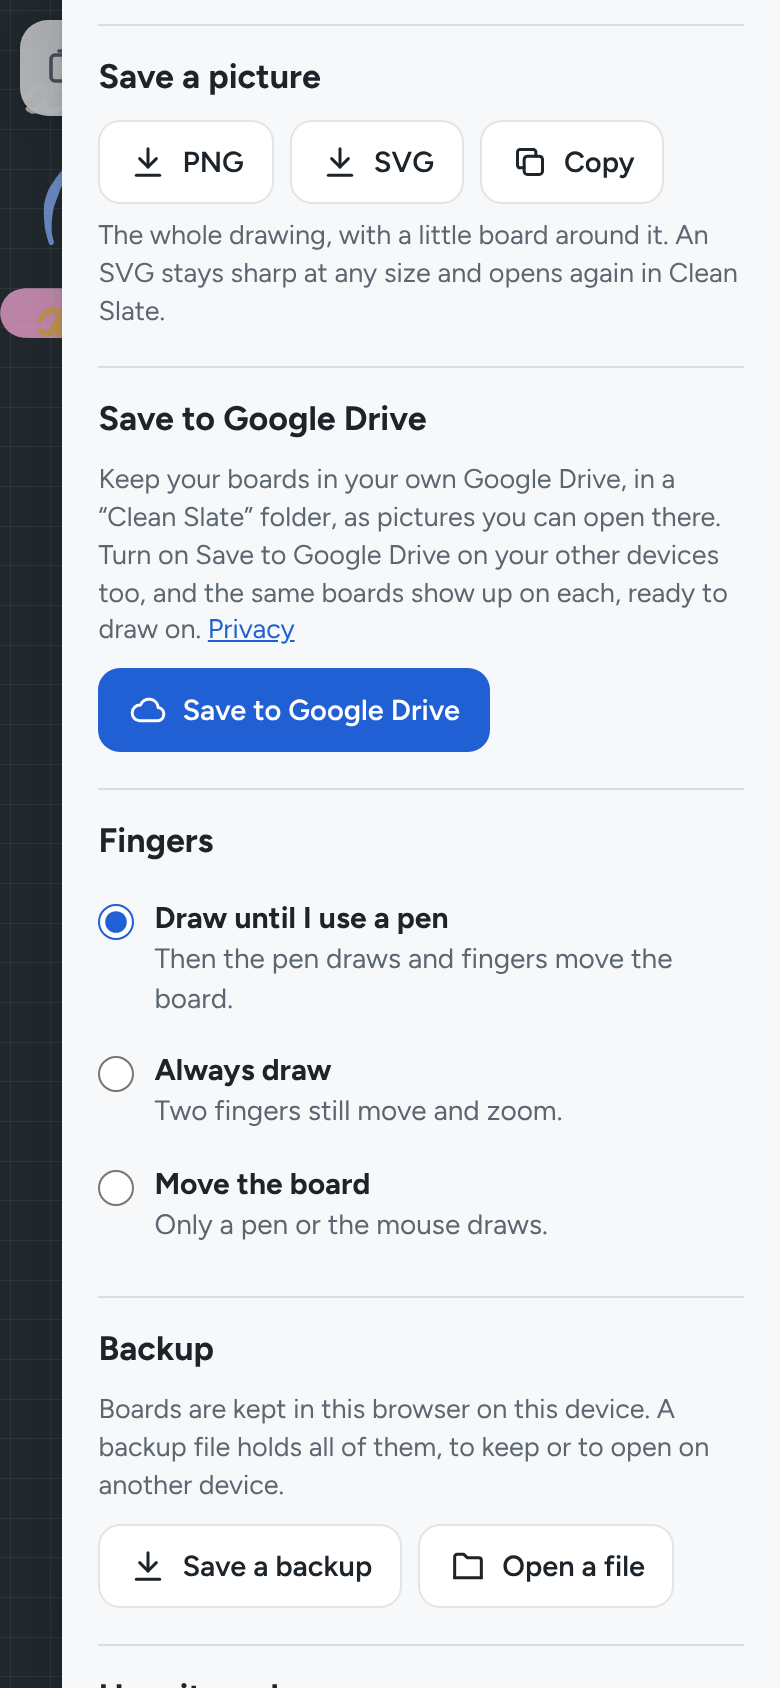
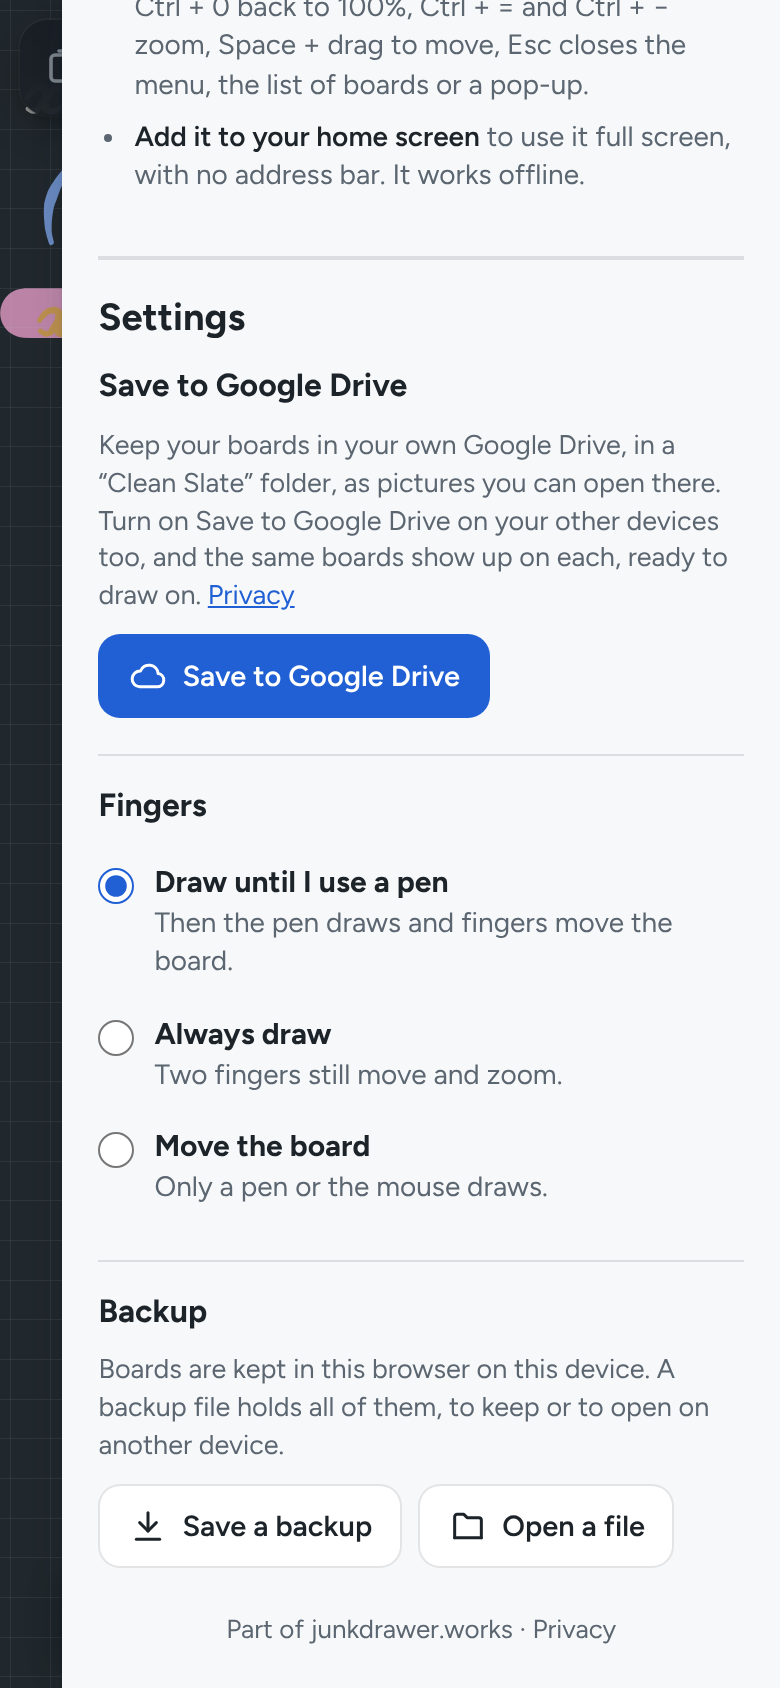
The menu has two parts, This board and Settings, with How it works higher up
The menu sheet was headed 'This board' but also held Google Drive, Fingers and Backup, which cover every board and the device, and How it works, the one place that explains the gestures, was last, about two screens down on a phone. This answers Mark's 'Split the menu into This board and Settings, with How it works higher up?' (he took the suggestion). 'This board' now heads the name, colour, lines, Show it all, Clear and Save a picture, with How it works straight after; a second heading, 'Settings', over a heavier rule, heads Google Drive, Fingers and Backup, and goes when nothing under it shows. The section headings are a size down from the two part headings, the dialog is named Menu, and the empty board's hint ends 'More in the ··· menu.' No setting does anything different. The phone menu picture now shows Settings, and the boards list picture its larger heading. The e2e test checks the headings and what is under each; the hint tests take the new words.

Claude-Session: https://claude.ai/code/session_01PQbLNUvRMPCiJKAR12LKFV

Changed region(s): [[0.1231, 0.0, 0.9231, 0.7393], [0.1231, 0.7701, 0.9231, 0.9858], [0.0, 0.0, 0.0923, 0.0924]]

diff --git a/index.html b/index.html
@@ -59,7 +59,7 @@
       <ul id="boardList" class="board-list"></ul>
     </aside>
 
-    <aside id="menu" class="sheet right" hidden role="dialog" aria-modal="true" aria-labelledby="menuTitle" tabindex="-1">
+    <aside id="menu" class="sheet right" hidden role="dialog" aria-modal="true" aria-label="Menu" tabindex="-1">
       <div class="sheet-head">
         <h2 id="menuTitle">This board</h2>
         <button type="button" class="icon-btn" data-close aria-label="Close">
@@ -75,7 +75,7 @@
       </div>
 
       <section class="files">
-        <h2>Save a picture</h2>
+        <h3>Save a picture</h3>
         <div class="row">
           <button type="button" class="btn" id="savePng"><svg viewBox="0 0 24 24" width="24" height="24" aria-hidden="true" fill="none" stroke="currentColor" stroke-width="1.8" stroke-linecap="round" stroke-linejoin="round"><path d="M12 4v11"/><path d="M7 10l5 5 5-5"/><path d="M5 20h14"/></svg>PNG</button>
           <button type="button" class="btn" id="saveSvg"><svg viewBox="0 0 24 24" width="24" height="24" aria-hidden="true" fill="none" stroke="currentColor" stroke-width="1.8" stroke-linecap="round" stroke-linejoin="round"><path d="M12 4v11"/><path d="M7 10l5 5 5-5"/><path d="M5 20h14"/></svg>SVG</button>
@@ -85,30 +85,8 @@
         <p class="small">The whole drawing, with a little board around it. An SVG stays sharp at any size and opens again in Clean Slate.</p>
       </section>
 
-      <section id="drive" class="drive" hidden></section>
-
-      <section>
-        <h2 id="fingersTitle">Fingers</h2>
-        <div role="radiogroup" aria-labelledby="fingersTitle">
-        <label class="radio"><input type="radio" name="fingers" value="auto"><span><b>Draw until I use a pen</b> Then the pen draws and fingers move the board.</span></label>
-        <label class="radio"><input type="radio" name="fingers" value="draw"><span><b>Always draw</b> Two fingers still move and zoom.</span></label>
-        <label class="radio"><input type="radio" name="fingers" value="move"><span><b>Move the board</b> Only a pen or the mouse draws.</span></label>
-        </div>
-      </section>
-
-      <section class="files">
-        <h2>Backup</h2>
-        <p class="small">Boards are kept in this browser on this device. A backup file holds all of them, to keep or to open on another device.</p>
-        <p class="small warn" id="kept" hidden>This browser isn’t keeping boards (a private window, perhaps). Save a backup before you close it.</p>
-        <div class="row">
-          <button type="button" class="btn" id="backup"><svg viewBox="0 0 24 24" width="24" height="24" aria-hidden="true" fill="none" stroke="currentColor" stroke-width="1.8" stroke-linecap="round" stroke-linejoin="round"><path d="M12 4v11"/><path d="M7 10l5 5 5-5"/><path d="M5 20h14"/></svg>Save a backup</button>
-          <button type="button" class="btn" id="restore"><svg viewBox="0 0 24 24" width="24" height="24" aria-hidden="true" fill="none" stroke="currentColor" stroke-width="1.8" stroke-linecap="round" stroke-linejoin="round"><path d="M4 19V6.5A1.5 1.5 0 0 1 5.5 5h4l2 2h7A1.5 1.5 0 0 1 20 8.5V19"/><path d="M4 19h16"/></svg>Open a file</button>
-          <input type="file" id="restoreFile" accept=".json,.svg,application/json,image/svg+xml" hidden>
-        </div>
-      </section>
-
       <section class="help">
-        <h2>How it works</h2>
+        <h3>How it works</h3>
         <ul>
           <li><b>Press harder</b> with a pen for a thicker line.</li>
           <li><b>Two fingers</b> move and zoom the board. Tap with two fingers to undo, three to redo.</li>
@@ -120,6 +98,31 @@
           <li id="homeScreen"><b>Add it to your home screen</b> to use it full screen, with no address bar. It works offline.</li>
         </ul>
       </section>
+
+      <div class="part" id="settings">
+        <h2 id="settingsTitle">Settings</h2>
+        <section id="drive" class="drive" hidden></section>
+
+        <section id="fingers">
+          <h3 id="fingersTitle">Fingers</h3>
+          <div role="radiogroup" aria-labelledby="fingersTitle">
+          <label class="radio"><input type="radio" name="fingers" value="auto"><span><b>Draw until I use a pen</b> Then the pen draws and fingers move the board.</span></label>
+          <label class="radio"><input type="radio" name="fingers" value="draw"><span><b>Always draw</b> Two fingers still move and zoom.</span></label>
+          <label class="radio"><input type="radio" name="fingers" value="move"><span><b>Move the board</b> Only a pen or the mouse draws.</span></label>
+          </div>
+        </section>
+
+        <section class="files">
+          <h3>Backup</h3>
+          <p class="small">Boards are kept in this browser on this device. A backup file holds all of them, to keep or to open on another device.</p>
+          <p class="small warn" id="kept" hidden>This browser isn’t keeping boards (a private window, perhaps). Save a backup before you close it.</p>
+          <div class="row">
+            <button type="button" class="btn" id="backup"><svg viewBox="0 0 24 24" width="24" height="24" aria-hidden="true" fill="none" stroke="currentColor" stroke-width="1.8" stroke-linecap="round" stroke-linejoin="round"><path d="M12 4v11"/><path d="M7 10l5 5 5-5"/><path d="M5 20h14"/></svg>Save a backup</button>
+            <button type="button" class="btn" id="restore"><svg viewBox="0 0 24 24" width="24" height="24" aria-hidden="true" fill="none" stroke="currentColor" stroke-width="1.8" stroke-linecap="round" stroke-linejoin="round"><path d="M4 19V6.5A1.5 1.5 0 0 1 5.5 5h4l2 2h7A1.5 1.5 0 0 1 20 8.5V19"/><path d="M4 19h16"/></svg>Open a file</button>
+            <input type="file" id="restoreFile" accept=".json,.svg,application/json,image/svg+xml" hidden>
+          </div>
+        </section>
+      </div>
 
       <footer class="jd-foot">
         <a href="https://junkdrawer.works/">Part of junkdrawer.works</a>

diff --git a/js/app.js b/js/app.js
@@ -318,8 +318,8 @@ function hint() {
   const fingerMoves = settings.fingers === 'move' || (settings.fingers === 'auto' && settings.penSeen);
   const draws = !fingerMoves ? 'Use a pen or a finger.' : settings.penSeen ? 'Your pen draws; one finger moves the board.' : 'A pen or the mouse draws; one finger moves the board.';
   el.innerHTML = coarse
-    ? `<b>Draw anywhere.</b> ${draws} Two fingers move and zoom. Tap with two fingers to undo.`
-    : `<b>Draw anywhere.</b> Scroll to move the board; pinch or Ctrl + scroll to zoom. Space + drag moves it too.`;
+    ? `<b>Draw anywhere.</b> ${draws} Two fingers move and zoom. Tap with two fingers to undo. More in the\u00a0···\u00a0menu.`
+    : `<b>Draw anywhere.</b> Scroll to move the board; pinch or Ctrl + scroll to zoom. Space + drag moves it too. More in the\u00a0···\u00a0menu.`;
 }
 
 // What a screen reader hears for the board: which one, and whether anything is on it.
@@ -635,6 +635,8 @@ addEventListener('afterprint', () => document.querySelector('.print-copy')?.remo
 if (single) menu.querySelectorAll('.files, #homeScreen').forEach(el => { el.hidden = true; });
 // Opened from the home screen, it's there already. (navigator.standalone: Safari on an iPhone or iPad.)
 if (matchMedia('(display-mode: standalone)').matches || navigator.standalone) $('#homeScreen').hidden = true;
+// The menu's Settings heading goes when there's nothing under it (in the one-file copy on a computer, say).
+function settingsShown() { $('#settings').hidden = ![...$('#settings').children].some(el => el.matches('section:not([hidden])')); }
 
 // ---------- sheets ----------
 // The list of boards and the menu are dialogs over the board: while one is open, everything behind it is inert (no
@@ -794,6 +796,7 @@ initSync({
 });
 chip($('#cloud'));
 card($('#drive'));
+settingsShown();
 openBoard(current);
 if (!store.isKept()) toast(single ? 'This page isn’t keeping boards. They last only while it’s open.' : 'This browser isn’t keeping boards (a private window, perhaps). Save a backup before you close it.', 6000);
 document.body.classList.add('ready');

diff --git a/js/sync.js b/js/sync.js
@@ -477,9 +477,9 @@ export function card(host) {
     if (made !== on) {
       made = on;
       host.innerHTML = st.on
-        ? `<h2>Google Drive</h2><p class="small">Your boards are saved to <b data-k="email"></b>, in <span class="path">My Drive › Clean Slate</span>, one picture per board. Turn on Save to Google Drive on another device and the same boards show up there. <span data-k="line"></span></p><p class="small" data-k="note" hidden></p>
+        ? `<h3>Google Drive</h3><p class="small">Your boards are saved to <b data-k="email"></b>, in <span class="path">My Drive › Clean Slate</span>, one picture per board. Turn on Save to Google Drive on another device and the same boards show up there. <span data-k="line"></span></p><p class="small" data-k="note" hidden></p>
           <div class="row"><button class="btn" type="button" data-a="now">${icon.cloud}Save now</button><button class="btn quiet" type="button" data-a="off">Stop on this device</button></div>`
-        : `<h2>Save to Google Drive</h2><p class="small">Keep your boards in your own Google Drive, in a “Clean Slate” folder, as pictures you can open there. Turn on Save to Google Drive on your other devices too, and the same boards show up on each, ready to draw on. <a href="https://junkdrawer.works/privacy.html">Privacy</a></p><p class="small" data-k="note" hidden></p>
+        : `<h3>Save to Google Drive</h3><p class="small">Keep your boards in your own Google Drive, in a “Clean Slate” folder, as pictures you can open there. Turn on Save to Google Drive on your other devices too, and the same boards show up on each, ready to draw on. <a href="https://junkdrawer.works/privacy.html">Privacy</a></p><p class="small" data-k="note" hidden></p>
           <div class="row"><button class="btn primary" type="button" data-a="on">${icon.cloud}Save to Google Drive</button></div>`;
       host.querySelector('[data-a="on"]')?.addEventListener('click', start);
       // (Not disabled while saving, which would throw the keyboard's focus off it: a tap then is left alone.)

diff --git a/css/app.css b/css/app.css
@@ -439,9 +439,14 @@ body[data-bg="slate"] .toast { box-shadow: var(--shadow), 0 0 0 1px rgba(255, 25
 .sheet.in { transform: none; }
 @media (prefers-reduced-motion: reduce) { .sheet, .scrim, .toast, .hint { transition: none; } }
 .sheet-head { display: flex; align-items: center; justify-content: space-between; margin: 0 -8px 6px 0; }
-.sheet h2 { font-size: 17px; margin: 0; }
+.sheet h2 { font-size: 19px; margin: 0; }
+.sheet h3 { font-size: 16px; margin: 0 0 8px; }
 .sheet section { border-top: 1px solid var(--line); margin-top: 18px; padding-top: 14px; }
-.sheet section h2 { margin-bottom: 8px; }
+/* The menu's second part, Settings, for every board on this device: its heading over a heavier rule, and a rule
+   between its sections (whichever of them show). */
+.part { margin-top: 30px; border-top: 2px solid var(--line); padding-top: 16px; }
+.part > section { border-top: 0; margin-top: 10px; padding-top: 0; }
+.part > section:not([hidden]) ~ section { border-top: 1px solid var(--line); margin-top: 18px; padding-top: 14px; }
 .sheet p { margin: 6px 0; }
 .small { font-size: 13.5px; color: var(--muted); }
 .warn, .err { color: var(--warn); }

diff --git a/sw.js b/sw.js
@@ -8,7 +8,7 @@
 // fingerprint of every file in SHELL: change any of them and test/e2e.mjs fails until FILES is changed to match (it
 // says what to), which changes this file, so every copy is made whole again at once.
 const CACHE = 'clean-slate-v5'; // bump the number when the file list changes
-const FILES = 'c8da6aa3'; // test/e2e.mjs checks this
+const FILES = 'a2f30fad'; // test/e2e.mjs checks this
 const SHELL = [
   './', 'index.html', 'icon.svg', 'manifest.webmanifest', 'icon-180.png', 'icon-192.png', 'icon-512.png', 'icon-512-maskable.png',
   'css/app.css', 'fonts/figtree.woff2',

diff --git a/README.md b/README.md
@@ -16,7 +16,7 @@ device too. There's no account, no ads and no server.
   &nbsp;
   <img src="docs/phone-boards.png" alt="The list of boards: Garden plan, Shed, Thursday and Homework, each with a small picture of the drawing and when it was last changed, a delete button, and New board at the top" width="250">
   &nbsp;
-  <img src="docs/phone-menu.png" alt="The menu: Save a picture as PNG, SVG or Copy; Save to Google Drive, with a sentence on where boards go; Fingers, with Draw until I use a pen chosen; and Backup" width="250">
+  <img src="docs/phone-menu.png" alt="The menu, scrolled down to Settings, under the end of How it works: Save to Google Drive, with a sentence on where boards go; Fingers, with Draw until I use a pen chosen; and Backup" width="250">
 </p>
 
 ## How it works
